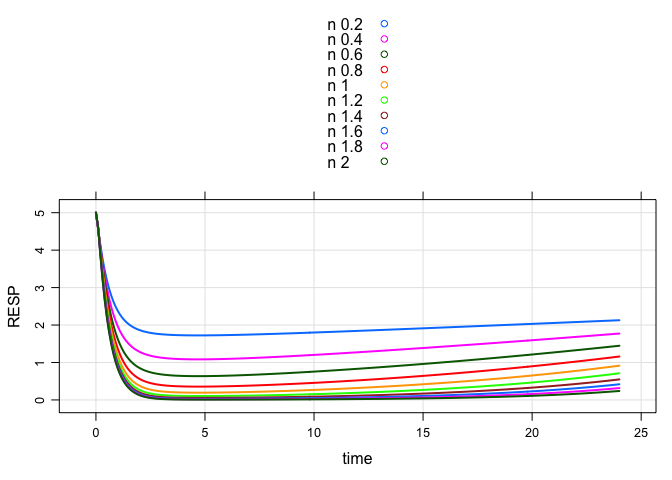
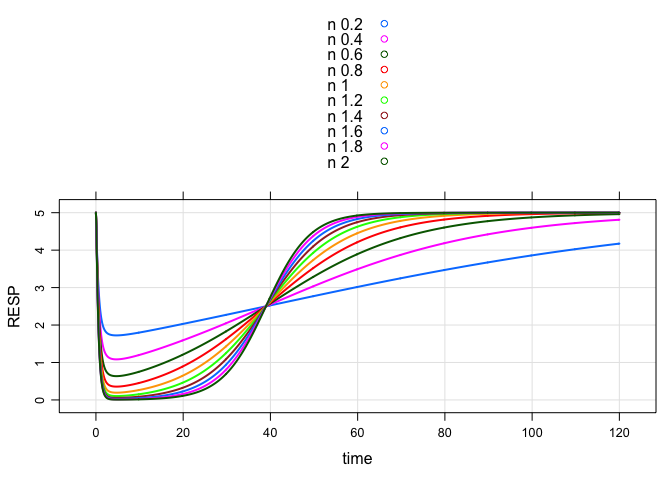
README

diff --git a/README.md b/README.md
@@ -113,7 +113,7 @@ see(mod)
 mod %>% 
   ev(amt=750) %>% 
   Req(RESP) %>%
-  knobs(n=seq(1,10,1)/5, delta=0.1) %>%
+  knobs(n=seq(1,10,1)/5, delta=0.1, end=120) %>%
   plot
 ```
 
